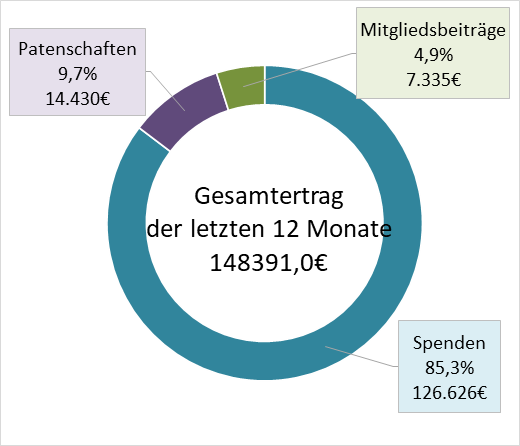
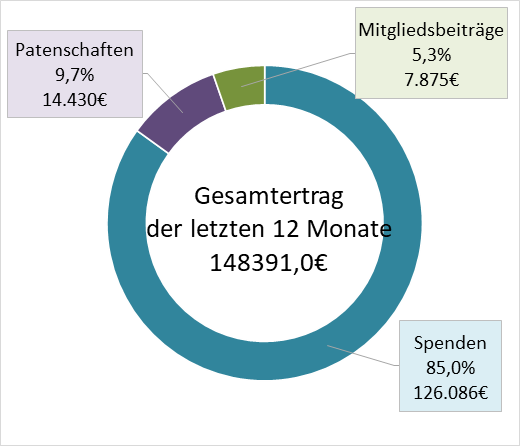
Finanzen 2.

diff --git a/public/de/Finanzen/aktuelleFinanzuebersicht/index.html b/public/de/Finanzen/aktuelleFinanzuebersicht/index.html
@@ -105,7 +105,7 @@ Die nachfolgenden Aufstellungen sind Teil unseres Versprechens auf Transparenz u
       </tr> 
       <tr>
         <td>Verfügbare Summe</td>
-        <td>98.828,38 €</td>
+        <td>-1.171,62 €</td>
       </tr>
   </tbody>
 </table>

diff --git a/public/en/Finanzen/aktuelleFinanzuebersicht/index.html b/public/en/Finanzen/aktuelleFinanzuebersicht/index.html
@@ -105,7 +105,7 @@ Die nachfolgenden Aufstellungen sind Teil unseres Versprechens auf Transparenz u
       </tr> 
       <tr>
         <td>Verfügbare Summe</td>
-        <td>98.828,38 €</td>
+        <td>-1.171,62 €</td>
       </tr>
   </tbody>
 </table>

diff --git a/public/fr/Finanzen/aktuelleFinanzuebersicht/index.html b/public/fr/Finanzen/aktuelleFinanzuebersicht/index.html
@@ -105,7 +105,7 @@ Die nachfolgenden Aufstellungen sind Teil unseres Versprechens auf Transparenz u
       </tr> 
       <tr>
         <td>Verfügbare Summe</td>
-        <td>98.828,38 €</td>
+        <td>-1.171,62 €</td>
       </tr>
   </tbody>
 </table>

diff --git a/content/de/Finanzen/aktuelleFinanzuebersicht.md b/content/de/Finanzen/aktuelleFinanzuebersicht.md
@@ -1,5 +1,5 @@
 {
-    "date": "2026-07-01T07:33:50+01:00",
+    "date": "2026-07-01T08:03:05+01:00",
     "draft": false,
     "title": "Aktuelle Finanzübersicht",
     "author": "WvS",
@@ -122,6 +122,7 @@ Die in rot gezeigten Unkosten setzen sich hauptsächlich aus laufenden Kosten wi
     });
   });
 </script>
+
 
 
 

diff --git a/content/en/Finanzen/aktuelleFinanzuebersicht.md b/content/en/Finanzen/aktuelleFinanzuebersicht.md
@@ -1,5 +1,5 @@
 {
-    "date": "2026-07-01T07:33:50+01:00",
+    "date": "2026-07-01T08:03:05+01:00",
     "draft": false,
     "title": "Aktuelle Finanzübersicht",
     "author": "WvS",
@@ -123,6 +123,7 @@ Die in rot gezeigten Unkosten setzen sich hauptsächlich aus laufenden Kosten wi
     });
   });
 </script>
+
 
 
 

diff --git a/content/fr/Finanzen/aktuelleFinanzuebersicht.md b/content/fr/Finanzen/aktuelleFinanzuebersicht.md
@@ -1,5 +1,5 @@
 {
-    "date": "2026-07-01T07:33:50+01:00",
+    "date": "2026-07-01T08:03:05+01:00",
     "draft": false,
     "title": "Aktuelle Finanzübersicht",
     "author": "WvS",
@@ -123,6 +123,7 @@ Die in rot gezeigten Unkosten setzen sich hauptsächlich aus laufenden Kosten wi
     });
   });
 </script>
+
 
 
 
